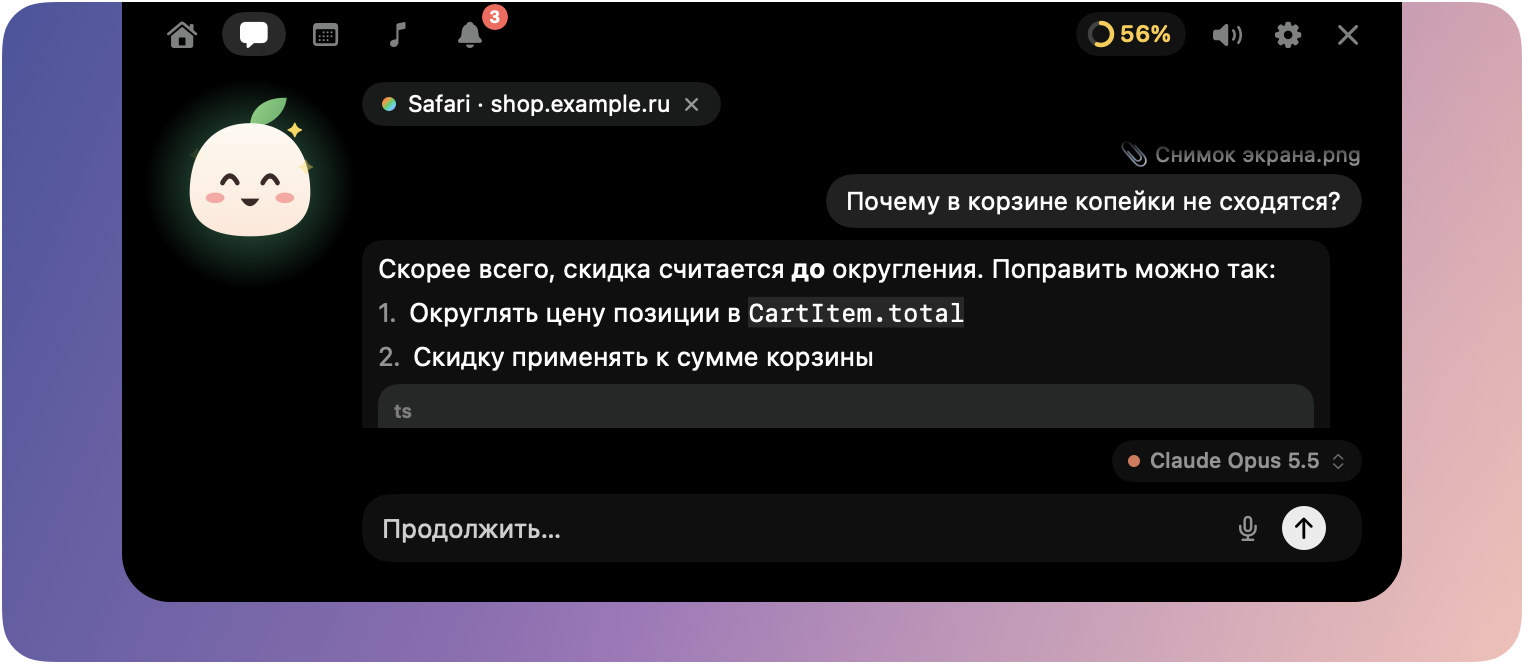
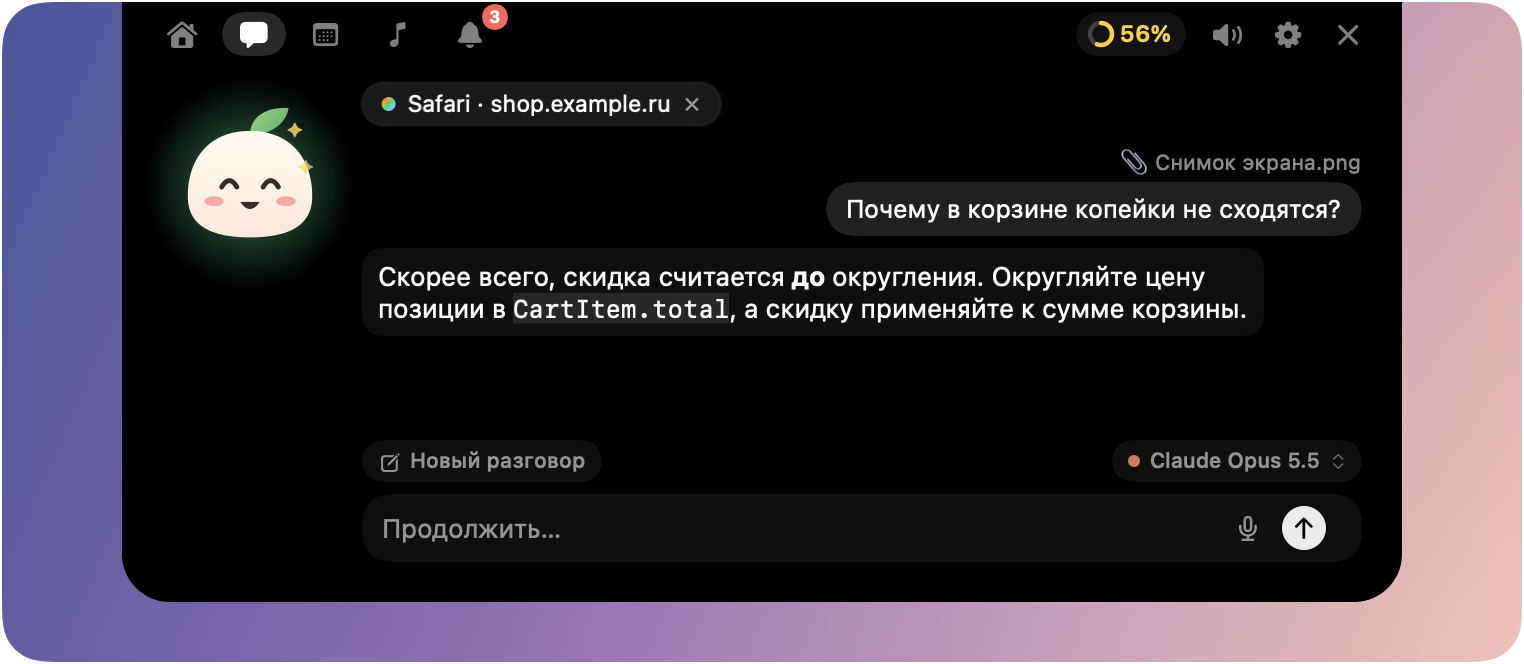
docs: Исправлена картинка чата в README

diff --git a/Sources/MelySnapshots/Snapshots.swift b/Sources/MelySnapshots/Snapshots.swift
@@ -21,7 +21,7 @@ enum Snapshots {
             Snapshot(name: "icon", view: AnyView(MelyAppIcon().frame(width: 160, height: 160))),
             Snapshot(name: "hero", view: AnyView(Desk { sessionsOverview() })),
             Snapshot(name: "approval", view: AnyView(Desk { requestCard(question: false) })),
-            Snapshot(name: "chat", view: AnyView(Desk { chat(hasKey: true) })),
+            Snapshot(name: "chat", view: AnyView(Desk { chat(hasKey: true, answer: readmeAnswer) })),
             Snapshot(name: "today", view: AnyView(Desk { calendarAgenda() })),
             Snapshot(name: "music", view: AnyView(Desk { miniPlayer() })),
             Snapshot(name: "reminder", view: AnyView(Desk(height: 128) { peekCard(PeekContent(
@@ -627,9 +627,14 @@ enum Snapshots {
             .environment(\.colorScheme, .dark)
     }
 
+    /// Short enough for the README picture to show the whole conversation.
+    static let readmeAnswer = "Скорее всего, скидка считается **до** округления. Округляйте цену позиции "
+        + "в `CartItem.total`, а скидку применяйте к сумме корзины."
+
     /// The chat tab after one question with a screenshot attached, or without a key.
-    @MainActor private static func chat(hasKey: Bool) -> some View {
-        let conversation = ChatConversation(transport: SampleChatTransport(),
+    @MainActor private static func chat(hasKey: Bool, answer: String? = nil) -> some View {
+        let transport: ChatTransport = answer.map { FixtureChatTransport(answer: $0) } ?? SampleChatTransport()
+        let conversation = ChatConversation(transport: transport,
                                             apiKey: { hasKey ? "k" : nil }, model: { .opus })
         let defaults = UserDefaults(suiteName: "mely-snapshots-chat")!
         defaults.removePersistentDomain(forName: "mely-snapshots-chat")
